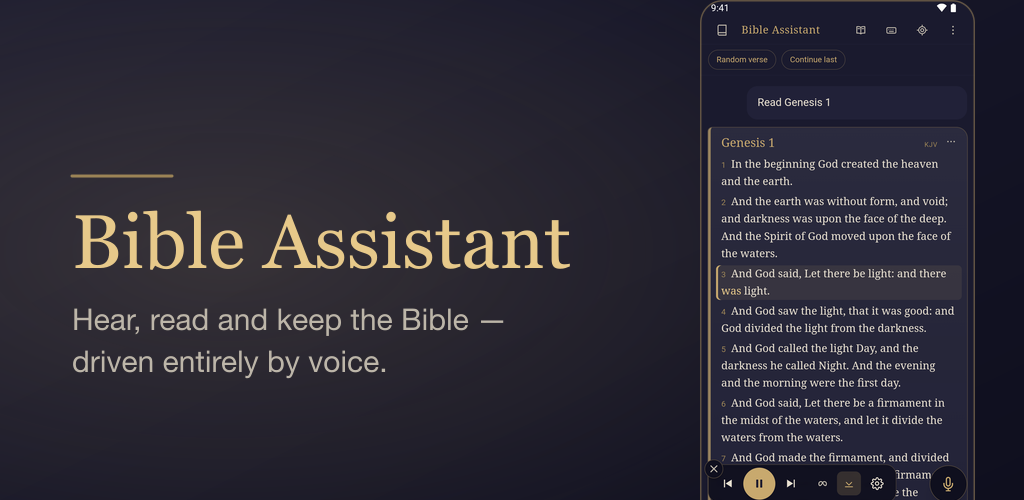
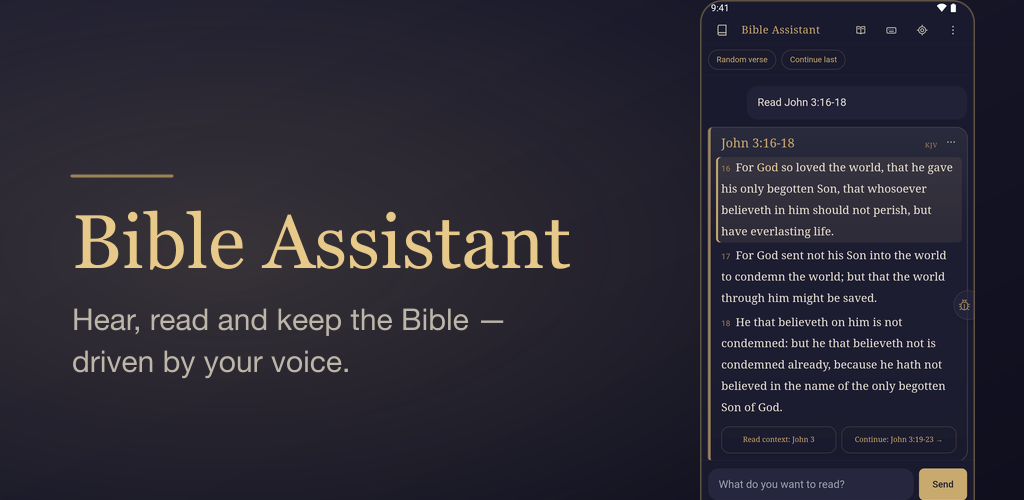
feat(store): rewrite the Play listing and recapture every screenshot
The listing still advertised eight translations, said the 12 recovery
words arrive on first launch, showed the pre-2.3.0 voice settings, and
had no English cards or boards. All of it was sent to Play for review on
2026-10-12; this is the source it came from.

Copy, both languages (listing-*.md):
- written from a check of what the code does today: new sections for
  reading plans, shelves and voices, plus reading appearance and offline
  narration downloads
- overclaims removed: pause and skip are tap-only (pace and stop work by
  voice too), the assistant names a passage rather than opening it,
  bookmarks are "Lesezeichen" set by voice, auto-play is optional, and
  Schlachter 2000's licence limits are stated
- the 12 words come with sync, not on first launch
- short descriptions add "teilen" / "share"; German quotes are „…“, the
  English ones curly as the console already had them; no unverifiable
  superlatives

Images:
- 8 screenshots per language, recaptured from the 2.3.4 build on the
  emulator (raw/2026-10/, demo status bar at 9:41); English goes from 5 to 8
- build-store-assets.mjs builds the new set, numbered in console order;
  the frames it no longer builds are removed, older raw captures stay
- feature graphics rebuilt from the new chat capture; the English
  tagline says "driven by your voice", not "entirely by voice"
- listing-*.md lists the order the console shows

Tests: none needed — store copy and images, no app code.

Changed region(s): [[0.6875, 0.27, 0.9688, 1.0], [0.1562, 0.69, 0.375, 0.75], [0.75, 0.18, 0.8438, 0.21]]

diff --git a/resources/store/listing-de-DE.md b/resources/store/listing-de-DE.md
@@ -4,13 +4,13 @@
 
 Bible Assistant
 
-## Kurzbeschreibung (max. 80) — 70 Zeichen
+## Kurzbeschreibung (max. 80) — 78 Zeichen
 
-Bibel hören, lesen und behalten — per Sprache gesteuert, auch offline.
+Bibel hören, lesen, behalten und teilen — per Sprache gesteuert, auch offline.
 
-## Vollständige Beschreibung (max. 4000)
+## Vollständige Beschreibung (max. 4000) — 3990 Zeichen
 
-Bible Assistant liest dir die Bibel vor. Du sagst, was du hören willst — „Lies Johannes 3,16" oder „Erzähl mir die Geschichte vom verlorenen Sohn" — und der Abschnitt wird laut gelesen, Wort für Wort mitmarkiert.
+Bible Assistant liest dir die Bibel vor. Du sagst, was du hören willst — „Lies Johannes 3,16“ oder „Erzähl mir die Geschichte vom verlorenen Sohn“ — und der Abschnitt wird laut gelesen, Wort für Wort mitmarkiert.
 
 Und wenn du lieber selbst liest: Es ist genauso eine ruhige, schön gesetzte Lese-Bibel.
 
@@ -18,70 +18,80 @@ HÖREN
 
 • Stelle ansagen oder eintippen — der Abschnitt wird vorgelesen.
 • Wort-für-Wort-Markierung, damit Auge und Ohr zusammenbleiben.
-• Automatisch weiterlesen: Abschnitt für Abschnitt, Kapitel für Kapitel, bis du stoppst.
-• Leise Hintergrundmusik unter der Lesestimme — Musik und Stimme getrennt regelbar.
-• Vor, zurück, Pause, Tempo: alles per Tippen oder per Zuruf.
+• Auf Wunsch automatisch weiterlesen: Abschnitt für Abschnitt, Kapitel für Kapitel.
+• Leise Hintergrundmusik unter der Lesestimme, getrennt regelbar.
+• Vor, zurück, Pause und Tempo per Tippen; Tempo und Stopp auch per Zuruf.
 
 FREIHÄNDIG, OHNE HINZUSEHEN
 
-Der Freihändig-Modus füllt den Bildschirm mit fünf riesigen Flächen: Start und Pause in der Mitte, vor und zurück links und rechts, Mikrofon unten, beenden oben. Kein Zielen, kein Suchen, keine kleinen Knöpfe.
-
-Gedacht für die Autofahrt, die Küche, den Spaziergang, den Nachttisch — und für alle, die nicht gut sehen.
+Der Freihändig-Modus füllt den Bildschirm mit fünf riesigen Flächen: Start und Pause in der Mitte, vor und zurück links und rechts, Mikrofon unten, beenden oben. Lang drücken, und die Fläche sagt, was sie tut. Gedacht für die Autofahrt, die Küche, den Spaziergang — und für alle, die nicht gut sehen.
 
 LESEN
 
 • Fließender Text mit Absätzen, nicht eine Zeile pro Vers.
 • Hochgestellte Versnummern, Initiale am Kapitelanfang.
 • Blättern oder endlos scrollen — deine Wahl.
-• Kapitel per Tippen wählen, oder einfach sagen, wo du hin willst.
-• Beim Vorlesen scrollt die Seite dem gerade gelesenen Vers nach.
+• Beim Vorlesen folgt die Seite dem gerade gelesenen Vers.
+• Schriftbild nach Wunsch: Papier, Sepia oder Nacht, Schriftgröße, Zeilenabstand, Kontrast.
 
 FRAGEN STATT SUCHEN
 
-Du musst keine Stelle auswendig kennen. Frag in eigenen Worten — „Welche Bibelstelle sagt, dass Gott die Liebe ist?" — und der Assistent nennt sie dir und schlägt sie auf.
+Du musst keine Stelle auswendig kennen. Frag in eigenen Worten — „Welche Bibelstelle sagt, dass Gott die Liebe ist?“ — und der Assistent nennt dir die Stelle.
+
+LESEPLÄNE
+
+Lege Lesepläne mit Tagen an — oder lass dir einen erstellen: „Ein Plan für das Neue Testament in 90 Tagen“. Ein Häkchen setzt sich von selbst, wenn ein Kapitel zu Ende vorgelesen ist oder du es in Ruhe gelesen hast.
 
 VERSE BEHALTEN
 
 • Karten aus einem oder mehreren Versen, zum Umdrehen und Auswendiglernen.
 • Pro Vers eine Übersetzung festpinnen — ideal, um zwei Fassungen zu vergleichen.
-• Eigene Notizen, eigene Textgröße, Hashtags zum Filtern.
-• Tafeln bündeln Karten nach Thema; auf der Pinnwand ordnest du sie frei an.
-• Farbige Lesebändchen (gold, blau, rot, grün, lila) merken sich, wo du weiterlesen willst.
+• Eigene Notizen, Farben, Textgröße, Hashtags zum Filtern.
+• Tafeln bündeln Karten nach Thema — als Raster, als Stapel oder frei angeordnet auf der Pinnwand.
+• Farbige Lesezeichen per Zuruf setzen — und später dort weiterlesen.
 
-8 ÜBERSETZUNGEN
+REGALE
 
-Deutsch: Luther 1912, Schlachter 2000, Schlachter 1951, Hoffnung für Alle, Elberfelder 1905.
-Englisch: King James Version, New King James Version, English Standard Version.
+Lege Regale für deine eigenen Texte an — Gedanken, Gebete, kurze Andachten. Sie werden vorgelesen wie ein Kapitel. Ein Regal teilst du per Code oder Link mit Menschen, die du einlädst: Nichts wird öffentlich gelistet, du entscheidest, wer liest. Auch Lesepläne, Tafeln und sogar eine Stimme lassen sich teilen. Regale sind für christliche, biblisch ausgerichtete Texte.
 
-Luther 1912 und die King James Version sind schon dabei. Die übrigen lädst du mit einem Tippen (je 1,4–1,7 MB).
+STIMMEN
+
+Echo liest sofort vor, ganz ohne Einrichtung; die Stimme deines Geräts funktioniert auch offline. Mit deinem eigenen OpenAI-Schlüssel stehen dir 13 Stimmen offen, in einer Sprechweise nach Wunsch; ein ElevenLabs-Schlüssel bringt besonders lebensechte Stimmen dazu. Gib einer Stimme einen Namen und ein Gesicht.
+
+4 ÜBERSETZUNGEN
+
+Deutsch: Luther 1912, Schlachter 2000, Elberfelder 1905.
+Englisch: King James Version.
+
+Luther 1912 und die King James Version sind schon dabei. Schlachter 2000 und Elberfelder 1905 lädst du mit einem Tippen (je 1,5–1,6 MB). Schlachter 2000 liest du kapitelweise: Seine Lizenz erlaubt weder endloses Scrollen noch automatisches Weiterlesen.
 
 OFFLINE
 
-Der Bibeltext liegt auf dem Gerät — zum Lesen brauchst du kein Netz. Zum Vorlesen kannst du die Stimme deines Geräts wählen, die ebenfalls ohne Verbindung funktioniert. Die natürlichen Vorlese-Stimmen brauchen Internet.
+Der Bibeltext liegt auf dem Gerät — zum Lesen brauchst du kein Netz, für Karten, Tafeln und Lesepläne auch nicht. Der Assistent und die natürlichen Vorlese-Stimmen brauchen Internet. Kapitel, Lesepläne und Regal-Beiträge lassen sich zum Offline-Hören laden.
 
 ALLES PER SPRACHE
 
-Nicht nur das Lesen: Sprache umstellen, Übersetzung wechseln, Stimme und Tempo ändern, Musik ein- und ausschalten, Karten anlegen, Tafeln füllen, Lesebändchen setzen — alles im Gespräch, ohne durch Menüs zu wandern.
+Übersetzung, Stimme, Tempo und Musik umstellen, Karten anlegen, Tafeln füllen, Lesepläne erstellen, Beiträge diktieren — alles im Gespräch, ohne durch Menüs zu wandern.
 
 KEIN KONTO
 
-Keine E-Mail, kein Passwort, keine Anmeldung. Beim ersten Start bekommst du 12 Wörter. Damit holst du deine Karten und Tafeln auf jedes weitere Gerät. Sonst nichts.
-
-OPTIONAL: EIGENER OPENAI-SCHLÜSSEL
-
-Du kannst sofort loslegen, ohne irgendetwas einzurichten. Wer seinen eigenen OpenAI-Schlüssel einträgt, schaltet damit alle Lesestimmen und den Sprachstil frei.
+Keine E-Mail, kein Passwort, keine Anmeldung. Deine Karten, Tafeln, Lesepläne und Stimmen bleiben auf deinem Gerät. Für ein weiteres Gerät schaltest du die Synchronisation ein und bekommst dafür 12 Wörter. Sonst nichts.
 
 Für stille Morgen, lange Autofahrten und das Auswendiglernen — und für jeden, der die Bibel lieber hört als tippt.
 
 ## Screenshots (in dieser Reihenfolge hochladen)
 
 1. `de-DE/phone-1-hoeren.png` — Sprich. Und höre.
-2. `de-DE/phone-2-freihaendig.png` — Ohne hinzusehen
-3. `de-DE/phone-3-lesen.png` — Lesen wie im Buch
-4. `de-DE/phone-4-karten.png` — Verse behalten
-5. `de-DE/phone-5-tafeln.png` — Auf Tafeln ordnen
-6. `de-DE/phone-6-uebersetzungen.png` — 8 Übersetzungen
-7. `de-DE/phone-7-einstellungen.png` — Deine Stimme, deine Fassung
+2. `de-DE/phone-2-lesen.png` — Lesen wie im Buch
+3. `de-DE/phone-3-karten.png` — Verse behalten
+4. `de-DE/phone-4-uebersetzungen.png` — 4 Übersetzungen
+5. `de-DE/phone-5-freihaendig.png` — Ohne hinzusehen
+6. `de-DE/phone-6-leseplaene.png` — Lesepläne
+7. `de-DE/phone-7-regale.png` — Regale zum Teilen
+8. `de-DE/phone-8-stimmen.png` — Deine Stimme
+
+Gebaut von `build-store-assets.mjs` aus den Aufnahmen in `raw/2026-10/` (Emulator,
+aktueller Build, Statusleiste im Demo-Modus auf 9:41).
 
 Feature-Grafik: `de-DE/feature-graphic.png` (1024×500)
 App-Icon: `public/icons/icon-512.png` (512×512)

diff --git a/resources/store/listing-en-US.md b/resources/store/listing-en-US.md
@@ -4,13 +4,13 @@
 
 Bible Assistant
 
-## Short description (max 80) — 66 characters
+## Short description (max 80) — 73 characters
 
-Hear, read and keep the Bible — voice-driven, hands-free, offline.
+Hear, read, keep and share the Bible — voice-driven, hands-free, offline.
 
-## Full description (max 4000)
+## Full description (max 4000) — 3869 characters
 
-Bible Assistant reads the Bible to you. Say what you want to hear — "Read John 3:16" or "Tell me the story of the lost son" — and the passage is read aloud, every word highlighted as it goes.
+Bible Assistant reads the Bible to you. Say what you want to hear — “Read John 3:16” or “Tell me the story of the lost son” — and the passage is read aloud, every word highlighted as it goes.
 
 And when you would rather read for yourself, it is just as much a quiet, well-set reading Bible.
 
@@ -18,75 +18,80 @@ LISTEN
 
 • Say a passage, or type it — and it is read aloud.
 • Word-by-word highlighting, so your eye stays with your ear.
-• Keep going automatically: passage after passage, chapter after chapter, until you stop.
-• Quiet background music under the reading voice — music and voice mixed separately.
-• Next, back, pause, pace: by tap or just by asking.
+• Keep going automatically if you like: passage after passage, chapter after chapter.
+• Quiet background music under the reading voice, mixed separately.
+• Next, back, pause and pace by tap; pace and stop by voice too.
 
 HANDS-FREE, WITHOUT LOOKING
 
-Hands-free mode fills the screen with five enormous zones: play and pause in the middle, next and back to the right and left, the microphone along the bottom, exit across the top. Nothing to aim at, nothing to hunt for, no small buttons.
-
-Made for the car, the kitchen, a walk, the bedside table — and for anyone who cannot see the screen well.
+Hands-free mode fills the screen with five enormous zones: play and pause in the middle, next and back to the right and left, the microphone along the bottom, exit across the top. Long-press a zone and it says what it does. Made for the car, the kitchen, a walk — and for anyone who cannot see the screen well.
 
 READ
 
 • Flowing prose with paragraphs, not one line per verse.
 • Superscript verse numbers and a drop cap at the head of each chapter.
 • Page through chapters or scroll endlessly — your choice.
-• Pick a chapter by tapping, or simply say where you want to go.
 • While reading aloud, the page follows the verse being spoken.
+• Make the page yours: paper, sepia or night, text size, line spacing, contrast.
 
 ASK INSTEAD OF SEARCHING
 
-You do not have to know the reference. Ask in your own words — "Which passage says that God is love?" — and the assistant names it and opens it for you.
+You do not have to know the reference. Ask in your own words — “Which passage says that God is love?” — and the assistant tells you where to find it.
+
+READING PLANS
+
+Build reading plans day by day — or have one made for you: “a plan for the New Testament in 90 days”. A day ticks itself off when its chapter has been read aloud to the end, or when you have taken your time over it in the reader.
 
 KEEP THE VERSES
 
 • Cards built from one verse or several, made to flip and memorize.
 • Pin a translation to an individual verse — ideal for holding two renderings side by side.
-• Your own notes, your own text size, hashtags to filter by.
-• Boards gather cards by theme; on the corkboard you arrange them freely.
-• Coloured ribbons (gold, blue, red, green, purple) remember where you want to pick up again.
+• Your own notes, colors, text size, hashtags to filter by.
+• Boards gather cards by theme — as a grid, a stack, or arranged freely on the corkboard.
+• Colored ribbons by voice: “save a gold ribbon here” — and pick up there later.
 
-8 TRANSLATIONS
+SHELVES
 
-English: King James Version, New King James Version, English Standard Version.
-German: Luther 1912, Schlachter 2000, Schlachter 1951, Hoffnung für Alle, Elberfelder 1905.
+Make shelves for your own writing — thoughts, prayers, short devotions. They are read aloud like a chapter. Share a shelf by code or link with the people you invite: nothing is listed publicly, and you decide who reads. A shelf can share reading plans, boards and even a voice too. Shelves are for Christian, Bible-centered writing.
 
-The King James Version and Luther 1912 are already included. The rest download with a single tap (1.4–1.7 MB each).
+VOICES
+
+Echo reads straight away, with nothing to set up; your device's own voice works offline too. With your own OpenAI key, 13 voices open up, each speaking the way you describe; an ElevenLabs key adds especially lifelike voices. Give a voice a name and a face.
+
+4 TRANSLATIONS
+
+English: King James Version.
+German: Luther 1912, Schlachter 2000, Elberfelder 1905.
+
+The King James Version and Luther 1912 are already included. Schlachter 2000 and Elberfelder 1905 download with a single tap (1.5–1.6 MB each). Schlachter 2000 is read chapter by chapter: its license allows neither endless scrolling nor auto-play.
 
 OFFLINE
 
-The Bible text lives on your device — you need no connection to read. To have it read aloud offline, choose your device's own voice, which works without a connection too. The natural reading voices need the internet.
+The Bible text lives on your device — you need no connection to read, nor for cards, boards and reading plans. The assistant and the natural reading voices need the internet. Download chapters, plan days and shelf pieces to listen offline.
 
 EVERYTHING BY VOICE
 
-Not only the reading: switch language, change translation, change voice and pace, turn the music on or off, create cards, fill boards, drop a ribbon — all in conversation, without walking through menus.
+Change translation, voice, pace and music, create cards, fill boards, make reading plans, dictate shelf pieces — all in conversation, without walking through menus.
 
 NO ACCOUNT
 
-No email, no password, no sign-up. On first launch you are given 12 words. Those 12 words bring your cards and boards to any other device. That is all.
-
-OPTIONAL: YOUR OWN OPENAI KEY
-
-You can start immediately without setting anything up. Add your own OpenAI key and you unlock every reading voice and the speaking style.
+No email, no password, no sign-up. Your cards, boards, reading plans and voices stay on your device. For another device, turn on sync and you are given 12 words that bring them there. That is all.
 
 For quiet mornings, long drives and learning by heart — and for anyone who would rather hear the Bible than type it.
 
 ## Screenshots (upload in this order)
 
 1. `en-US/phone-1-listen.png` — Say it. Hear it.
-2. `en-US/phone-2-handsfree.png` — Eyes off. Ears on.
-3. `en-US/phone-3-read.png` — Read like a book
-4. `en-US/phone-4-translations.png` — 8 translations
-5. `en-US/phone-5-settings.png` — Your voice, your version
+2. `en-US/phone-2-read.png` — Read like a book
+3. `en-US/phone-3-cards.png` — Keep the verses
+4. `en-US/phone-4-translations.png` — 4 translations
+5. `en-US/phone-5-handsfree.png` — Eyes off. Ears on.
+6. `en-US/phone-6-plans.png` — Reading plans
+7. `en-US/phone-7-shelves.png` — Shelves to share
+8. `en-US/phone-8-voices.png` — Your voice
+
+Built by `build-store-assets.mjs` from the captures in `raw/2026-10/` (emulator,
+current build, status bar in demo mode at 9:41).
 
 Feature graphic: `en-US/feature-graphic.png` (1024×500)
 App icon: `public/icons/icon-512.png` (512×512)
-
-## Note
-
-The English set has 5 screenshots (the German default listing has 7). Cards and
-Boards are not shown here — the emulator run that would have produced English
-card content hit an ANR before those two frames were captured. Play accepts 2–8,
-so 5 is valid; adding the two missing frames is a follow-up.
